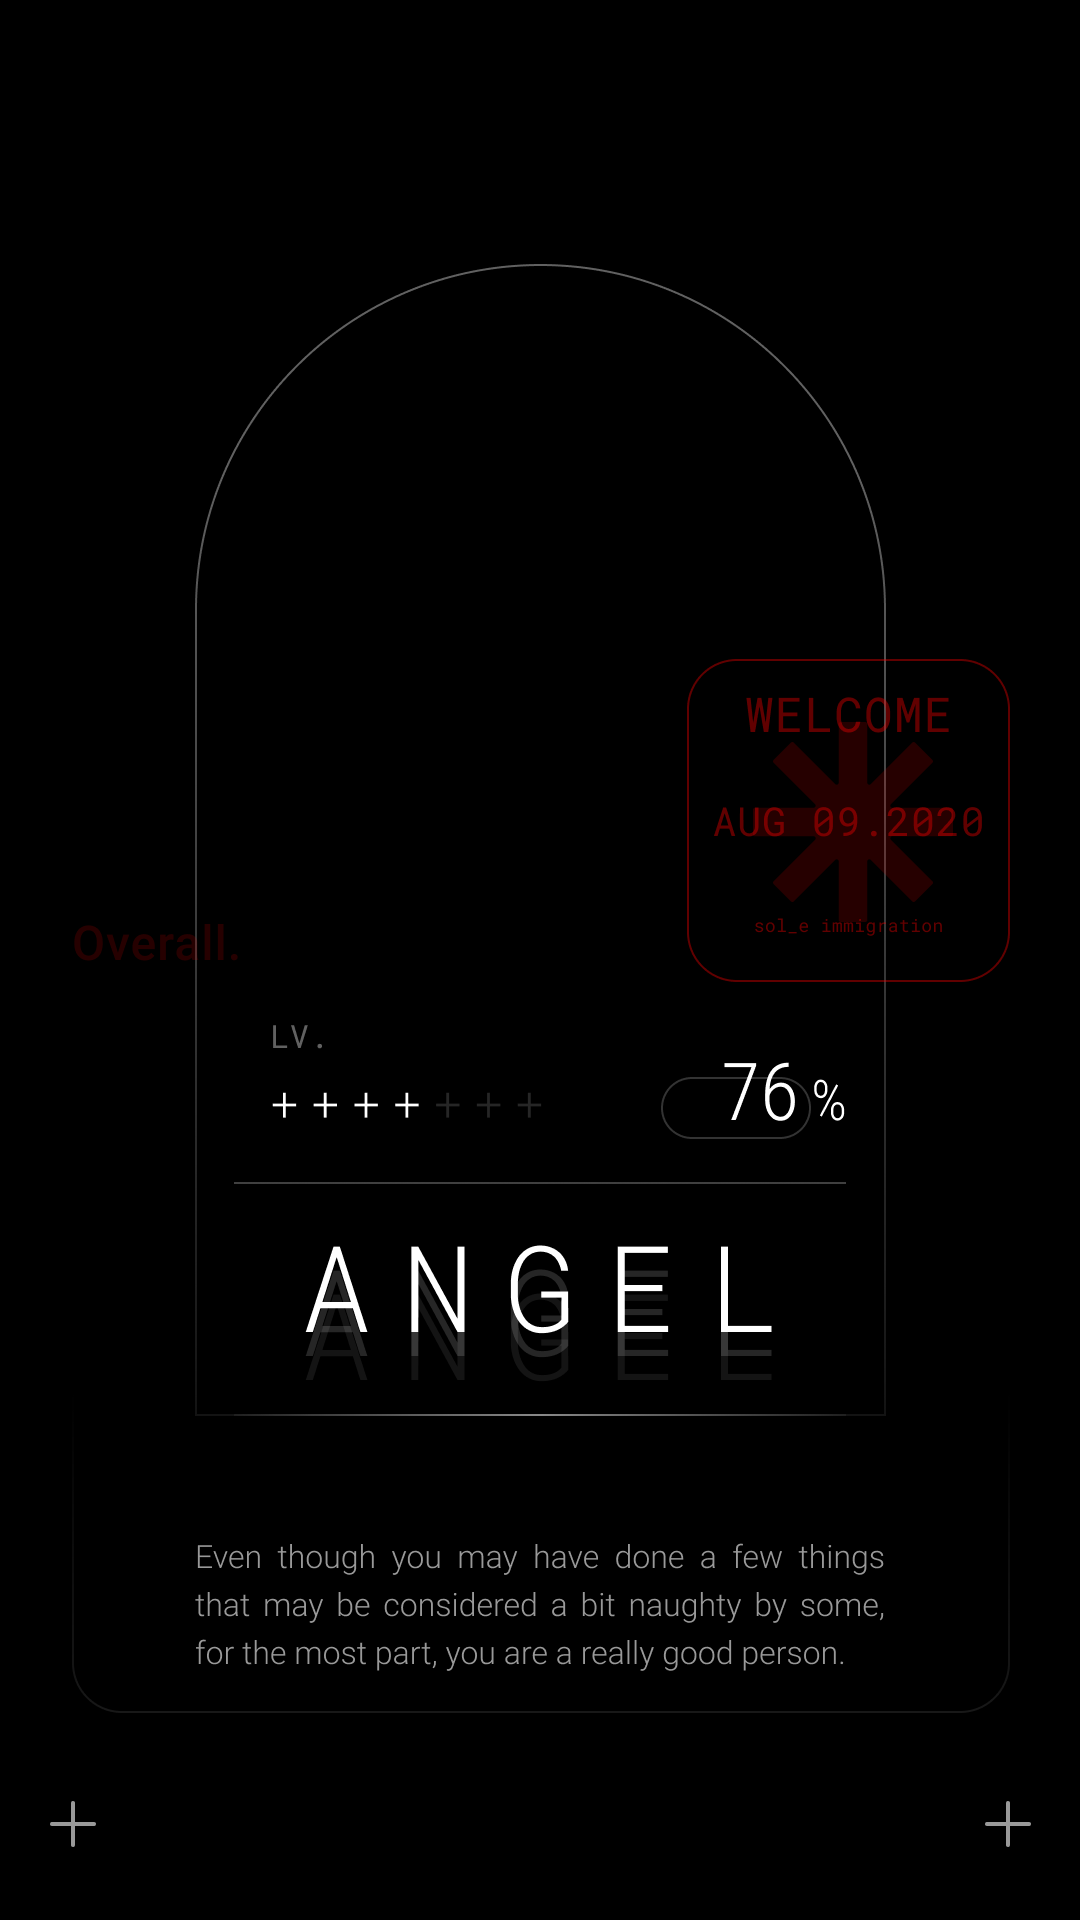
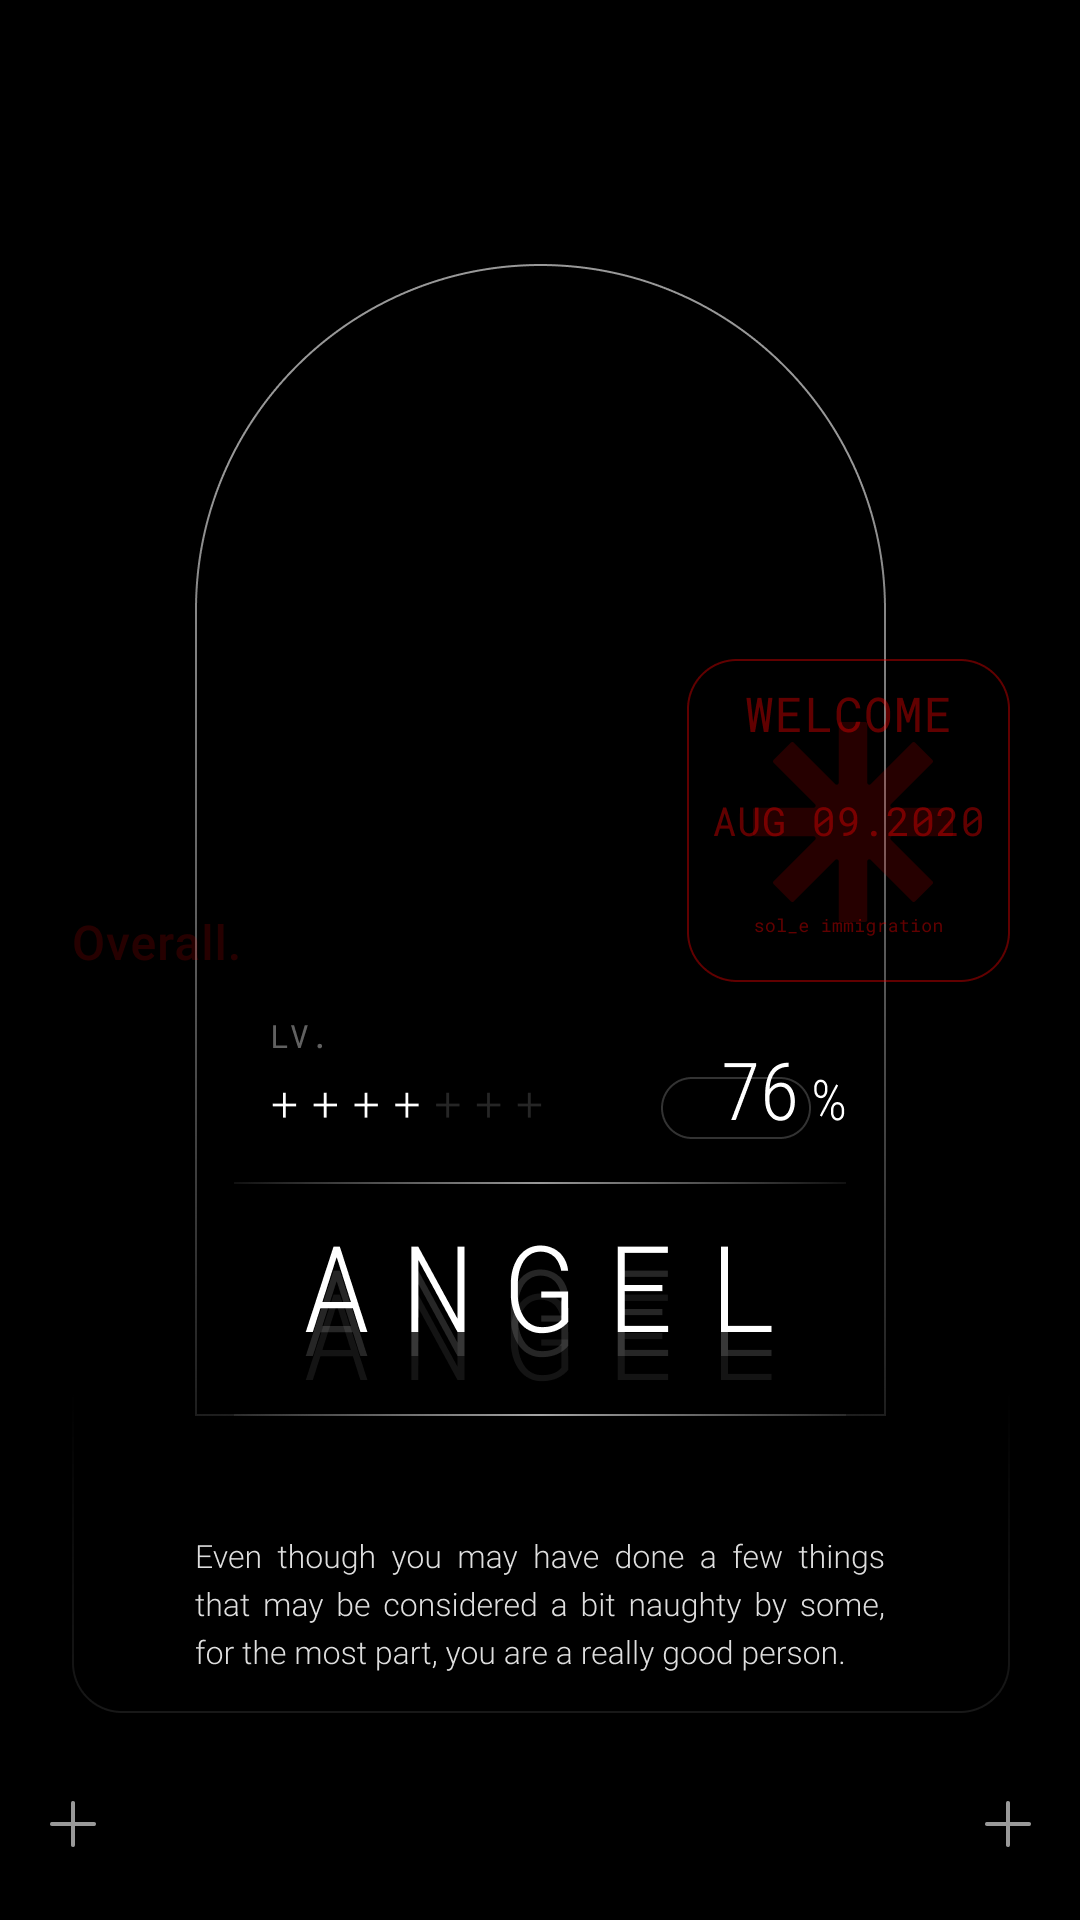
updated images

diff --git a/src/components/Summary/Top/styles.scss b/src/components/Summary/Top/styles.scss
@@ -4,12 +4,11 @@
     margin-top: 80px;
 
     img {
-        border: 1px solid #FFFFFF;
         box-sizing: border-box;
         border-radius: 250px 250px 0 0;
         opacity: 0.7;
-        width: 320px;
-        height: 448px;
+        width: 100%;
+        height: 100%;
     }
 
     .summary-data {
@@ -57,6 +56,14 @@
 
     .summary-personal-image-container {
         position: relative;
+        border-radius: 250px 250px 0 0;
+        border: 2px solid rgba(255,255,255, 0.3);
+        width: 320px;
+        height: 448px;
+
+        &:hover {
+            border: 2px solid red;
+        }
 
         .summary-angel-gif {
             opacity: 1;

diff --git a/src/components/Summary/SummaryFlow/index.js b/src/components/Summary/SummaryFlow/index.js
@@ -15,7 +15,7 @@ export default ({ onChar }) => {
                     <div className="summary-data-images">
                         <img src={`${ASSETS_BASE}/summary/cards/performanceMain.png`}
                             alt="" className="character"/>
-                        <img src={`${ASSETS_BASE}/summary/left.png`}
+                        <img src={`${ASSETS_BASE}/summary/left2.svg`}
                             alt="" className="data-btn"
                             onClick={() => {
                                 onChar()

diff --git a/src/components/Summary/SummaryChar/index.js b/src/components/Summary/SummaryChar/index.js
@@ -15,7 +15,7 @@ export default ({ onFlow }) => {
                     <div className="summary-data-images">
                         <img src={`${ASSETS_BASE}/summary/cards/charMain.png`}
                             alt="" className="character"/>
-                        <img src={`${ASSETS_BASE}/summary/left.png`}
+                        <img src={`${ASSETS_BASE}/summary/left2.svg`}
                             alt="" className="data-btn"
                             onClick={() => {
                                 onFlow()

diff --git a/src/components/TVOverlay/index.js b/src/components/TVOverlay/index.js
@@ -1,12 +1,13 @@
 import React from 'react';
-import './styles.scss';
+import classNames from 'classnames';
 import {ASSETS_BASE} from "../../constants";
+import './styles.scss';
 
-const TVOverlay = () => {
+const TVOverlay = ({ className = '' }) => {
     return (
         // <div className="component-tv-overlay"/>
         <img src={`${ASSETS_BASE}/tvOverlay.png`}
-             className="component-tv-overlay-2" alt=""/>
+             className={classNames('component-tv-overlay-2', className)} alt=""/>
 
     );
 };

diff --git a/src/components/Summary/Statistics/preserve/index.js b/src/components/Summary/Statistics/preserve/index.js
@@ -11,7 +11,7 @@ export default ({ onBack, onChange = () => null }) => {
         <div className="statistics-certificate">
             <HeaderLine onBack={onBack}/>
             <img src={`${ASSETS_BASE}/summary/PRESERVE.png`} alt="" className="improve-img"/>
-            <img src={`${ASSETS_BASE}/summary/left.png`}
+            <img src={`${ASSETS_BASE}/summary/left2.svg`}
                  alt="" className="summary-improve-data-btn"
                  onClick={onChange}
             />

diff --git a/src/components/Summary/Statistics/improve/index.js b/src/components/Summary/Statistics/improve/index.js
@@ -11,7 +11,7 @@ export default ({ onBack, onChange = () => null }) => {
         <div className="statistics-improve">
             <HeaderLine onBack={onBack}/>
             <img src={`${ASSETS_BASE}/summary/IMPROVE2.png`} alt="" className="improve-img"/>
-            <img src={`${ASSETS_BASE}/summary/left.png`}
+            <img src={`${ASSETS_BASE}/summary/left2.svg`}
                  alt="" className="summary-improve-data-btn"
                  onClick={onChange}
             />

diff --git a/src/components/Summary/SummaryMenu/styles.scss b/src/components/Summary/SummaryMenu/styles.scss
@@ -25,7 +25,7 @@
                 //border: 2px solid transparent;
                 //box-sizing: border-box;
                 //border-radius: 50px;
-                border: 2px solid #FFFFFF;
+                border: 2px solid rgba(255,255,255,0.3);
                 box-sizing: border-box;
                 filter: drop-shadow(0px 4px 4px rgba(0, 0, 0, 0.25));
                 border-radius: 50px;

diff --git a/src/components/FolderOverlay/index.js b/src/components/FolderOverlay/index.js
@@ -1,9 +1,10 @@
 import React from 'react';
+import classNames from 'classnames';
 import './styles.scss';
 
-const FolderOverlay = () => {
+const FolderOverlay = ({ className = '' }) => {
     return (
-        <div className="component-folder-overlay"/>
+        <div className={classNames('component-folder-overlay', className)}/>
     );
 };
 

diff --git a/src/components/Summary/HeaderLine/styles.scss b/src/components/Summary/HeaderLine/styles.scss
@@ -39,10 +39,18 @@ $color: #FF0000;
         img {
             transform: rotate(90deg);
         }
+
+        &:hover {
+            opacity: 0.7;
+        }
     }
 
     .header-btn {
         margin: auto 0;
         padding-top: 16px;
+
+        &:hover {
+            opacity: 0.7;
+        }
     }
 }

diff --git a/src/components/Summary/index.js b/src/components/Summary/index.js
@@ -42,7 +42,7 @@ const SummaryStatistics = ({ userImage }) => {
 
     return (
         <>
-            <TVOverlay/>
+            <TVOverlay className="summary-tv-overlay"/>
             <FolderOverlay/>
             {
                 stage === STAGE.welcome ?

diff --git a/src/components/Summary/styles.scss b/src/components/Summary/styles.scss
@@ -37,7 +37,14 @@
 
 .summary-improve-data-btn {
     position: absolute;
-    top: 56%;
+    top: calc(50% + 115px);
     right: 10%;
+
+    &:hover {
+        opacity: 0.7;
+    }
 }
 
+.summary-tv-overlay {
+    opacity: 0.3;
+}

diff --git a/src/components/Summary/SummaryChar/styles.scss b/src/components/Summary/SummaryChar/styles.scss
@@ -47,6 +47,10 @@
                 position: absolute;
                 top: 50px;
                 right: 40px;
+
+                &:hover {
+                    opacity: 0.7;
+                }
             }
         }
     }
